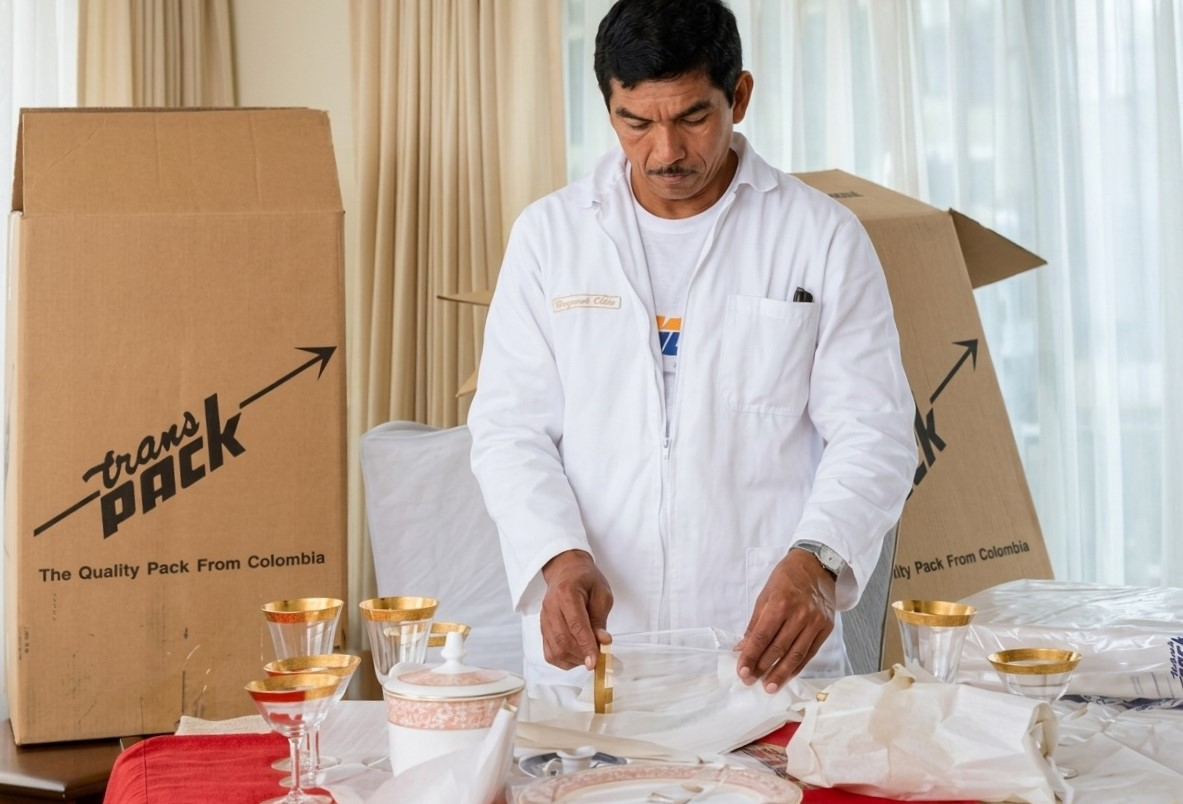
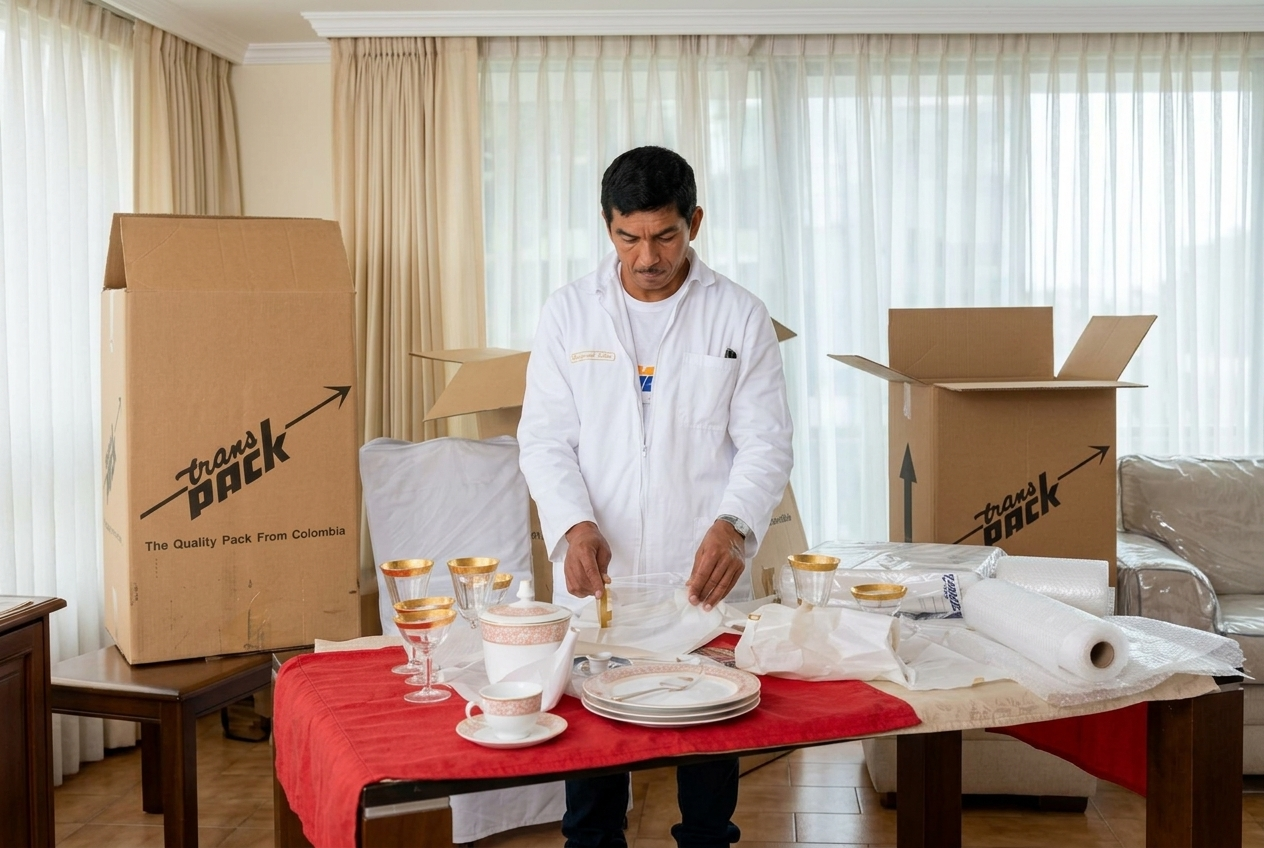
cambio de imagen header

diff --git a/src/components/home/Hero.tsx b/src/components/home/Hero.tsx
@@ -17,6 +17,13 @@ import headerImg from "@/assets/images/img-header.jpg";
 // embajadas atendidas, todos a la vista en cuadrículas fijas: en gris; al pasar
 // el cursor, cada logo recupera sus colores y su ficha se levanta con sombra y
 // la franja naranja de la marca.
+//
+// Que se vea la mayor parte de la foto (nov. 2026): en escritorio la foto casi
+// cabe entera (solo recorta arriba y abajo; se ancla arriba para no cortar la
+// cabeza) y el degradado oscuro de la izquierda es más corto, para que se vea
+// la caja con el logo detrás del titular. En celular y tableta la foto ya no
+// cubre todo el alto (así solo se veía un 30 % de su ancho): va arriba, en 4:3
+// (casi completa), y se funde con el azul noche, donde sigue el texto.
 // Resalta en negrita las cifras indicadas dentro de un texto
 function highlight(text: string, marks: string[]) {
   const parts: React.ReactNode[] = [];
@@ -49,7 +56,7 @@ export function Hero() {
   return (
     <section className="relative text-texto">
       {/* Foto a pantalla completa, también detrás de la cabecera fija */}
-      <div className="relative isolate flex min-h-[100svh] items-center overflow-hidden bg-[#0D0F33] pb-16 pt-[150px] md:pt-[180px] lg:pb-20">
+      <div className="relative isolate flex items-start lg:min-h-[100svh] overflow-hidden bg-[#0D0F33] pb-16 pt-[calc(75vw-24px)] lg:items-center lg:pb-20 lg:pt-[180px]">
         <img
           src={headerImg}
           alt={t.imageAlt}
@@ -57,17 +64,22 @@ export function Hero() {
           height={804}
           fetchPriority="high"
           decoding="async"
-          className="absolute inset-0 -z-20 h-full w-full object-cover object-[72%_center]"
+          className="absolute inset-x-0 top-0 -z-20 aspect-[4/3] w-full object-cover object-[55%_top] lg:inset-y-0 lg:aspect-auto lg:h-full lg:object-[72%_top]"
         />
-        {/* Degradado oscuro desde la izquierda (titular) y desde arriba (menú).
-            En celular, el texto va sobre toda la foto: más parejo */}
+        {/* Celular y tableta: la foto se funde abajo con el azul noche */}
         <div
           aria-hidden="true"
-          className="pointer-events-none absolute inset-0 -z-10 bg-[linear-gradient(90deg,rgba(13,15,51,.85)_0%,rgba(13,15,51,.7)_28%,rgba(13,15,51,.32)_46%,rgba(13,15,51,0)_62%)] max-lg:bg-[linear-gradient(180deg,rgba(13,15,51,.55)_0%,rgba(13,15,51,.72)_45%,rgba(13,15,51,.85)_100%)]"
+          className="pointer-events-none absolute inset-x-0 top-0 -z-10 aspect-[4/3] bg-[linear-gradient(180deg,rgba(13,15,51,0)_45%,rgba(13,15,51,.55)_75%,#0D0F33_100%)] lg:hidden"
         />
+        {/* Escritorio: degradado oscuro desde la izquierda, detrás del titular */}
         <div
           aria-hidden="true"
-          className="pointer-events-none absolute inset-x-0 top-0 -z-10 h-[200px] bg-[linear-gradient(180deg,rgba(13,15,51,.55)_0%,rgba(13,15,51,0)_100%)]"
+          className="pointer-events-none absolute inset-0 -z-10 hidden bg-[linear-gradient(90deg,rgba(13,15,51,.82)_0%,rgba(13,15,51,.58)_24%,rgba(13,15,51,.2)_40%,rgba(13,15,51,0)_54%)] lg:block"
+        />
+        {/* Desde arriba, para el menú */}
+        <div
+          aria-hidden="true"
+          className="pointer-events-none absolute inset-x-0 top-0 -z-10 h-[140px] bg-[linear-gradient(180deg,rgba(13,15,51,.5)_0%,rgba(13,15,51,0)_100%)] lg:h-[200px]"
         />
 
         <div className="mx-auto w-[min(100%-32px,1200px)] wide:w-[min(100%-120px,1320px)]">
@@ -99,7 +111,7 @@ export function Hero() {
                 </span>
               </span>
             </h1>
-            <p className="mx-auto mb-9 max-w-[52ch] text-[clamp(1rem,.95rem+.25vw,1.12rem)] font-medium text-white/90 lg:mx-0 lg:text-start">
+            <p className="mx-auto mb-9 max-w-[52ch] text-[clamp(1rem,.95rem+.25vw,1.12rem)] font-medium text-white/90 [text-shadow:0_1px_14px_rgba(13,15,51,.6)] lg:mx-0 lg:text-start">
               {highlight(t.sub, t.subHighlights)}
             </p>
             <div className="flex flex-wrap justify-center gap-3 lg:justify-start">

diff --git a/AGENTS.md b/AGENTS.md
@@ -456,10 +456,15 @@ blanco.
 - **Foto a pantalla completa** (nov. 2026; reemplazó al mapa animado):
   `src/assets/images/img-header.jpg` (original en
   `RecursosTranspack/Imagenes/img-header.jpeg`) cubre todo el ancho y alto del
-  Hero (`min-h-[100svh]`, `object-cover`), también detrás de la cabecera fija.
-  Degradado oscuro (azul noche `#0D0F33` translúcido) desde la izquierda,
-  hasta un 62 % del ancho, y desde arriba (200 px, para el menú); en celular,
-  uno vertical más parejo. Titular, texto, rótulo "Desde 1968", botón
+  Hero en escritorio (`min-h-[100svh]`, `object-cover` anclada arriba, para no
+  cortar la cabeza), también detrás de la cabecera fija. Degradado oscuro (azul
+  noche `#0D0F33` translúcido) desde la izquierda, hasta un 54 % del ancho (más
+  corto desde nov. 2026, para que se vea la caja con el logo), y desde arriba
+  (200 px, para el menú). En celular y tableta (nov. 2026) la foto va arriba en
+  4:3, casi completa, y se funde con el azul noche, donde sigue el texto (antes
+  cubría todo el alto y solo se veía un 30 % de su ancho). Para reemplazarla:
+  horizontal 16:9, idealmente 2400 × 1350 px, con el sujeto en la mitad derecha
+  y aire arriba para el menú. Titular, texto, rótulo "Desde 1968", botón
   secundario (`btn.ghost`) y marquesina van en blanco. El `h1` usa
   `text-white!`: la regla base de `h1` en `index.css` no está en una capa y
   le gana a las utilidades.
